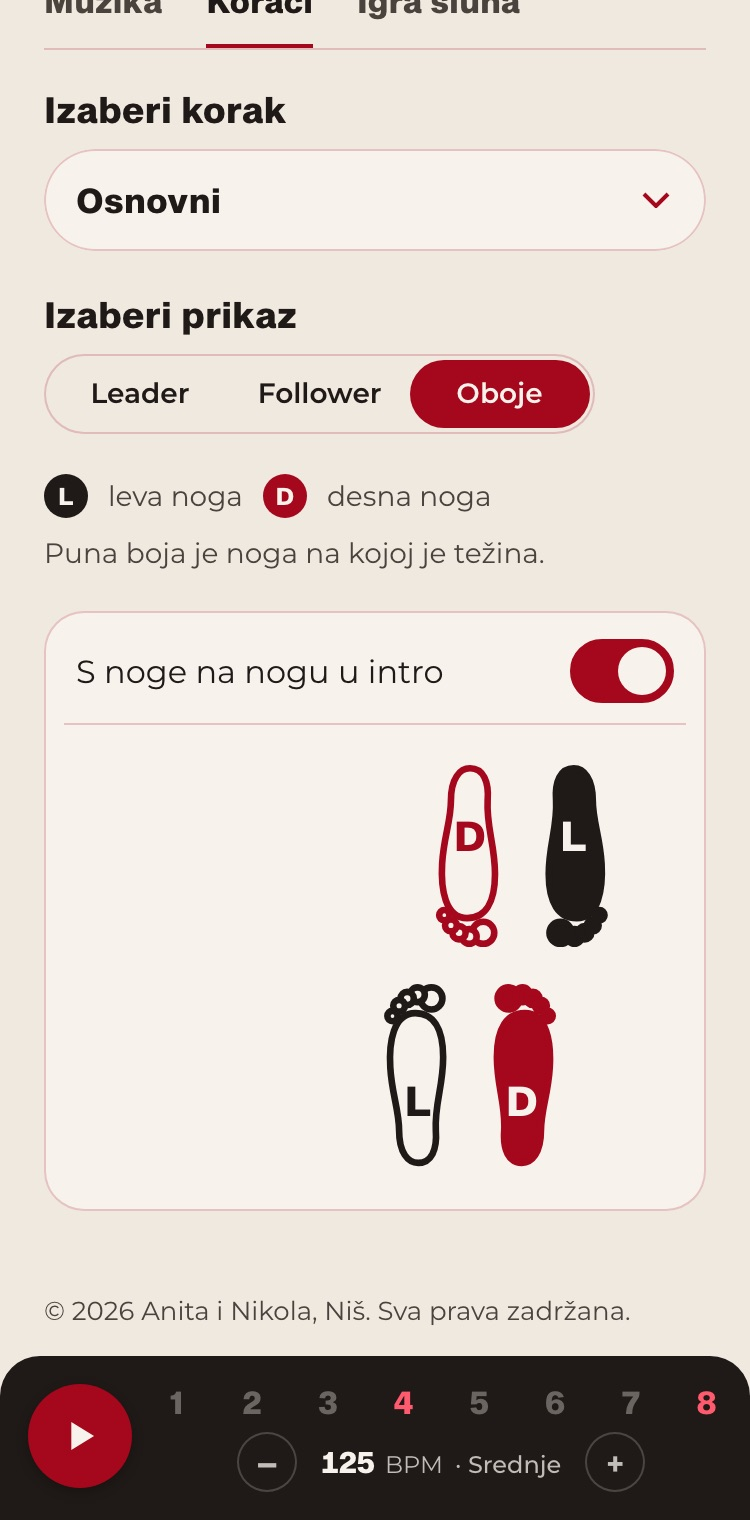
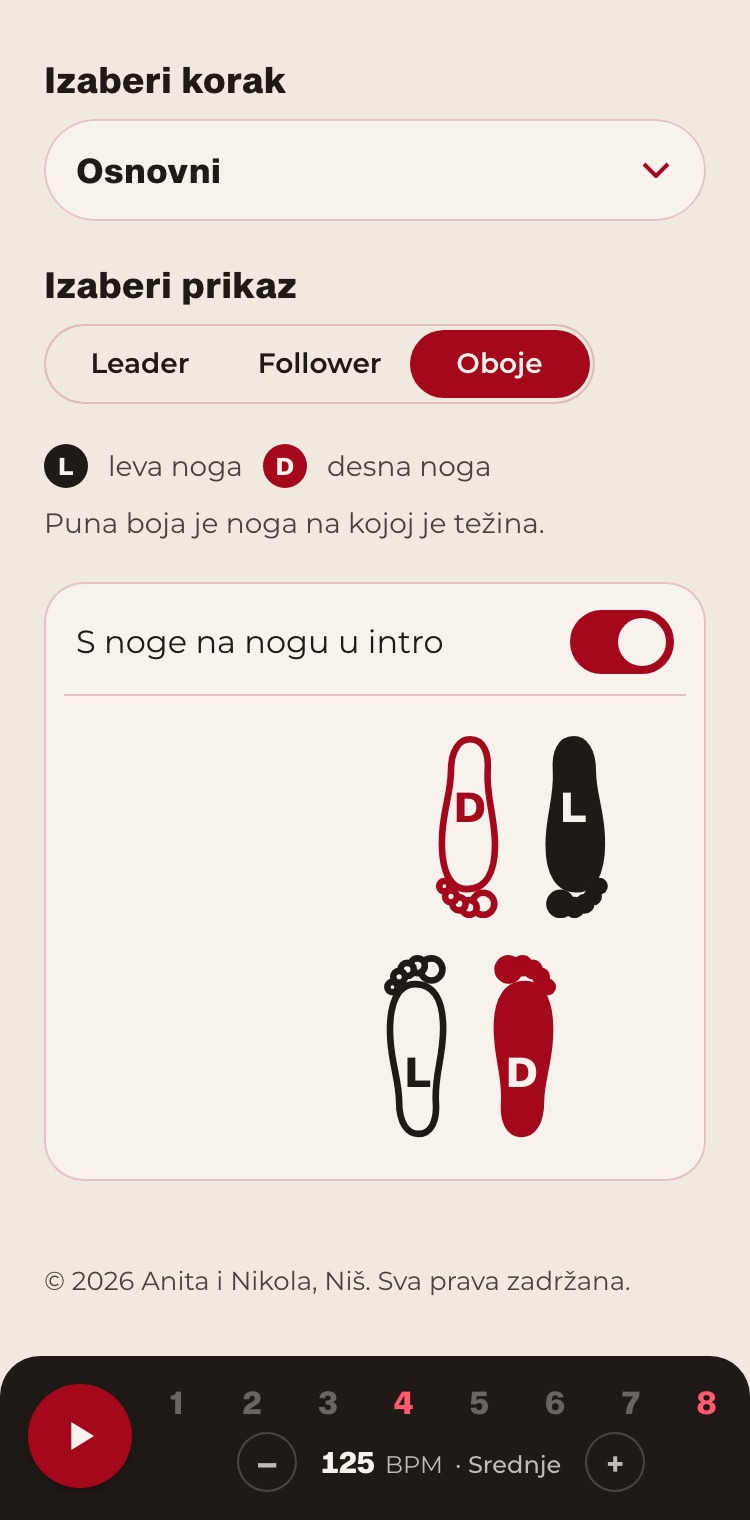
Sajt: pill dugmad, leader/follower; Vežbe: tekstovi bez Viber grupe, novi snimci ekrana, crveni linkovi na ulazu

diff --git a/practice/about/index.html b/practice/about/index.html
@@ -50,7 +50,7 @@
 }
 </script>
 
-<link rel="stylesheet" href="/css/site.css?v=10">
+<link rel="stylesheet" href="/css/site.css?v=11">
 <style>
   /* this page only: a dark header band, the phone screenshots and the three parts of the app */
   .top { background: var(--ink); color: var(--paper); padding: calc(18px + env(safe-area-inset-top)) 0 48px; }
@@ -108,7 +108,7 @@
       <div class="rule"></div>
       <ul class="shots">
         <li><img src="img/muzika.jpg" alt="Ekran Muzika: izbor pesme, brojanje, metronom i instrumenti koje uključuješ jedan po jedan" width="750" height="1520" loading="lazy"><p>Muzika: svaki instrument posebno.</p></li>
-        <li><img src="img/koraci.jpg" alt="Ekran Koraci: osnovni korak bachate, stopala vođe i pratilje gledano odozgo" width="750" height="1520" loading="lazy"><p>Koraci: stopala vođe i pratilje.</p></li>
+        <li><img src="img/koraci.jpg" alt="Ekran Koraci: osnovni korak bachate, stopala leadera i followera gledano odozgo" width="750" height="1520" loading="lazy"><p>Koraci: stopala leadera i followera.</p></li>
         <li><img src="img/igra.jpg" alt="Ekran Igra sluha: igre Prati ritam, Nađi tap i Nađi jedinicu" width="750" height="1520" loading="lazy"><p>Igra sluha: tri igre za ritam.</p></li>
       </ul>
     </div>
@@ -125,7 +125,7 @@
           <ul>
             <li>Brojanje od 1 do 8, na srpskom ili engleskom, i metronom.</li>
             <li>Traka pesme pokazuje gde je intro, a gde se igra bachata: derecho, majao i mambo.</li>
-            <li>Generisana muzika sa tempom od 60 do 200 BPM, za sporo vežbanje.</li>
+            <li>Generisana muzika sa tempom od 60 do 200 BPM, za vežbanje brzine.</li>
           </ul>
         </div>
         <div>
@@ -133,13 +133,13 @@
           <p>Animacija stopala odozgo, u ritmu muzike. Puna boja pokazuje nogu na kojoj je težina, pa se jasno vidi i tap.</p>
           <ul>
             <li>Osnovni korak, napred, u mestu, box, korak tap, dupli tap, cross back, slide i okreti na 1 i na 5.</li>
-            <li>Prikaz za vođu, za pratilju ili za oboje zajedno.</li>
+            <li>Prikaz za leadera, za followera ili za oboje zajedno.</li>
             <li>Uz pravu pesmu stopala prate delove pesme: u intru se težina prenosi s noge na nogu.</li>
           </ul>
         </div>
         <div>
           <h3>Igra sluha</h3>
-          <p>Tri igre koje uče da čuješ ritam bez brojanja. Svaki nivo je druga pesma, a muzika je sve brža.</p>
+          <p>Tri igre koje uče da čuješ ritam bez brojanja. Svaki nivo je druga pesma, a muzika je sve teža.</p>
           <ul>
             <li>Prati ritam: tapni na svaki udarac.</li>
             <li>Nađi tap: tapni na 4 i 8, tamo gde je tap.</li>
@@ -156,7 +156,7 @@
       <h2>Za polaznike kluba</h2>
       <div class="rule"></div>
       <div class="members">
-        <p>Aplikacija je besplatna za polaznike naših časova bachate u Nišu. Šifru dobijaš u Viber grupi polaznika.</p>
+        <p>Aplikacija je besplatna za polaznike bachata kluba Anita i Nikola u Nišu.</p>
         <p>Nisi polaznik? Časovi su utorkom i četvrtkom od 18:30, na adresi Bulevar dr Zorana Đinđića 38. Sve o upisu je na <a href="/">početnoj strani</a>.</p>
       </div>
       <div class="actions">
@@ -188,7 +188,7 @@
         </details>
         <details>
           <summary>Kako da dobijem pristup?</summary>
-          <p>Upiši se na časove. Polaznici dobijaju šifru u Viber grupi. Piši nam na Instagramu <a href="https://ig.me/m/anitainikola">@anitainikola</a>.</p>
+          <p>Upiši se na časove, polaznici dobijaju šifru kluba. Piši nam na Instagramu <a href="https://ig.me/m/anitainikola">@anitainikola</a>.</p>
         </details>
       </div>
     </div>

diff --git a/practice/js/app.js b/practice/js/app.js
@@ -1,13 +1,13 @@
-import { Engine, CHANNELS } from './engine.js?v=20261102193147';
-import { laneVelocity, NUMERE, setNumera, numeraId } from './patterns.js?v=20261102193147';
-import { KORACI } from './steps.js?v=20261102193147';
-import { FeetView } from './feet.js?v=20261102193147';
-import { EarTest, MODES, LEVELS, roundMs, feedback, songsForGame } from './game.js?v=20261102193147';
-import * as store from './storage.js?v=20261102193147';
-import * as board from './leaderboard.js?v=20261102193147';
-import { t, lang, setLang, onLangChange, applyStatic } from './i18n.js?v=20261102193147';
-import { ICONS } from './icons.js?v=20261102193147';
-import { unlocked } from './gate.js?v=20261102193147';
+import { Engine, CHANNELS } from './engine.js?v=20261102194158';
+import { laneVelocity, NUMERE, setNumera, numeraId } from './patterns.js?v=20261102194158';
+import { KORACI } from './steps.js?v=20261102194158';
+import { FeetView } from './feet.js?v=20261102194158';
+import { EarTest, MODES, LEVELS, roundMs, feedback, songsForGame } from './game.js?v=20261102194158';
+import * as store from './storage.js?v=20261102194158';
+import * as board from './leaderboard.js?v=20261102194158';
+import { t, lang, setLang, onLangChange, applyStatic } from './i18n.js?v=20261102194158';
+import { ICONS } from './icons.js?v=20261102194158';
+import { unlocked } from './gate.js?v=20261102194158';
 
 await unlocked(); // the club gate: nothing starts (no song downloads) until the code is typed
 

diff --git a/practice/js/i18n.js b/practice/js/i18n.js
@@ -9,10 +9,10 @@ const DICT = {
     'wordmark.aria': 'Anita i Nikola, početna strana sajta',
     'wordmark.href': '/',
     'title': 'Vežbanje',
-    'gate.lead': 'Aplikacija je za polaznike kluba. Upiši šifru iz Viber grupe.',
+    'gate.lead': 'Aplikacija je za polaznike kluba. Upiši šifru kluba.',
     'gate.label': 'Šifra kluba',
     'gate.enter': 'Uđi',
-    'gate.wrong': 'Šifra nije tačna. Proveri šifru u Viber grupi.',
+    'gate.wrong': 'Šifra nije tačna. Pokušaj ponovo.',
     'gate.about': 'Šta je ova aplikacija?',
     'gate.join': 'Nisi polaznik? Piši nam na Instagramu',
     'lang.group': 'Jezik',
@@ -186,10 +186,10 @@ const DICT = {
     'wordmark.aria': 'Anita i Nikola, website home page',
     'wordmark.href': '/en/',
     'title': 'Practice',
-    'gate.lead': 'The app is for members of the club. Type the code from the Viber group.',
+    'gate.lead': 'The app is for members of the club. Type the club code.',
     'gate.label': 'Club code',
     'gate.enter': 'Enter',
-    'gate.wrong': 'Wrong code. Check the code in the Viber group.',
+    'gate.wrong': 'Wrong code. Try again.',
     'gate.about': 'What is this app?',
     'gate.join': 'Not a member? Message us on Instagram',
     'lang.group': 'Language',

diff --git a/practice/index.html b/practice/index.html
@@ -14,7 +14,7 @@
   <link rel="preconnect" href="https://fonts.gstatic.com" crossorigin>
   <link href="https://fonts.googleapis.com/css2?family=Montserrat:wght@400;500;600&family=Sacramento&display=swap" rel="stylesheet">
   <link rel="preload" href="fonts/Northwell.woff2" as="font" type="font/woff2" crossorigin>
-  <link rel="stylesheet" href="css/app.css?v=20261102193147">
+  <link rel="stylesheet" href="css/app.css?v=20261102194158">
 </head>
 <body class="is-locked">
   <header class="top">
@@ -38,7 +38,7 @@
 
   <!-- ============================================================ CLUB GATE -->
   <section class="gate" id="gate" hidden>
-    <p class="gate-lead" data-i18n="gate.lead">Aplikacija je za polaznike kluba. Upiši šifru iz Viber grupe.</p>
+    <p class="gate-lead" data-i18n="gate.lead">Aplikacija je za polaznike kluba. Upiši šifru kluba.</p>
     <form class="gate-form" id="gate-form" autocomplete="off">
       <label class="field-label" for="gate-code" data-i18n="gate.label">Šifra kluba</label>
       <div class="gate-row">
@@ -221,6 +221,6 @@
     </div>
   </footer>
 
-  <script type="module" src="js/app.js?v=20261102193147"></script>
+  <script type="module" src="js/app.js?v=20261102194158"></script>
 </body>
 </html>

diff --git a/en/index.html b/en/index.html
@@ -65,7 +65,7 @@
 }
 </script>
 
-<link rel="stylesheet" href="../css/site.css?v=10">
+<link rel="stylesheet" href="../css/site.css?v=11">
 </head>
 <body>
 
@@ -128,7 +128,7 @@
         <div class="rule"></div>
         <ul class="points">
           <li><h3>Partner dancing</h3><p>We rotate partners during class, so you quickly get to know the whole group, and you don't need to bring a partner.</p></li>
-          <li><h3>Step by step</h3><p>We work on rhythm, basic steps, leading and following, and then on figures.</p></li>
+          <li><h3>Step by step</h3><p>We work on rhythm, basic steps, technique for leaders and followers, and then on figures.</p></li>
           <li><h3>No pressure</h3><p>We want our classes to be a place where you progress at your own pace, ask questions and look forward to the next one.</p></li>
           <li><h3>Practical skills</h3><p>You don't learn figures to memorize them, but to be able to dance with anyone at a party. With every class your confidence grows, on the dance floor and off it.</p></li>
         </ul>

diff --git a/index.html b/index.html
@@ -65,7 +65,7 @@
 }
 </script>
 
-<link rel="stylesheet" href="css/site.css?v=10">
+<link rel="stylesheet" href="css/site.css?v=11">
 </head>
 <body>
 
@@ -128,7 +128,7 @@
         <div class="rule"></div>
         <ul class="points">
           <li><h3>Ples u paru</h3><p>Na časovima menjamo partnere, tako da brzo upoznaš celu grupu, a dolazak bez partnera nije problem.</p></li>
-          <li><h3>Korak po korak</h3><p>Radimo ritam, osnovne korake, vođenje i praćenje, a zatim i figure.</p></li>
+          <li><h3>Korak po korak</h3><p>Radimo ritam, osnovne korake, tehniku za leadere i followere, a zatim i figure.</p></li>
           <li><h3>Bez pritiska</h3><p>Želimo da časovi budu mesto gde napreduješ svojim tempom, postavljaš pitanja i raduješ se sledećem treningu.</p></li>
           <li><h3>Primenjivo znanje</h3><p>Ne učiš figure da bi ih zapamtio, već da bi mogao da zaplešeš sa bilo kim na žurci. Sa svakim časom raste i samopouzdanje, na podijumu i van njega.</p></li>
         </ul>

diff --git a/practice/js/engine.js b/practice/js/engine.js
@@ -3,9 +3,9 @@
 // and get the step that is sounding right now, so sound and picture stay locked
 // even when the tempo changes mid-play.
 
-import * as I from './instruments.js?v=20261102193147';
-import * as P from './patterns.js?v=20261102193147';
-import { SampleBank } from './samples.js?v=20261102193147';
+import * as I from './instruments.js?v=20261102194158';
+import * as P from './patterns.js?v=20261102194158';
+import { SampleBank } from './samples.js?v=20261102194158';
 
 export const STEPS_PER_PHRASE = 16;
 const LOOKAHEAD = 0.18;    // schedule this far ahead (s); a count word may start up to 0.15 s before its beat

diff --git a/practice/js/gate.js b/practice/js/gate.js
@@ -1,8 +1,8 @@
 // Club gate: the app opens only after the player types the club code (shared in the club's Viber group).
 // The code changes about once a month; a phone that knows the current code is let in at once.
 // This only stops casual visitors (the site is static); real accounts may come later.
-import { CODE_HASH } from './access.js?v=20261102193147';
-import { applyStatic, t } from './i18n.js?v=20261102193147';
+import { CODE_HASH } from './access.js?v=20261102194158';
+import { applyStatic, t } from './i18n.js?v=20261102194158';
 
 const KEY = 'vezbaj.pristup';
 const $ = (id) => document.getElementById(id);

diff --git a/practice/js/feet.js b/practice/js/feet.js
@@ -1,5 +1,5 @@
-import { t } from './i18n.js?v=20261102193147';
-import { KORACI, NOGA_NA_NOGU } from './steps.js?v=20261102193147';
+import { t } from './i18n.js?v=20261102194158';
+import { KORACI, NOGA_NA_NOGU } from './steps.js?v=20261102194158';
 // Top-down feet animation for the Koraci screen.
 // Positions come from steps.js; time comes from the audio engine (positionAt),
 // so the feet land exactly on the counts you hear.

diff --git a/practice/css/app.css b/practice/css/app.css
@@ -668,3 +668,4 @@ body.is-locked .tabs, body.is-locked main, body.is-locked .transport, body.is-lo
 .gate-row .cta { flex: none; min-height: 50px; }
 .gate-error { min-height: 1.4em; margin: 8px 0 0; font-size: 14px; color: var(--red); }
 .gate-links { display: grid; gap: 10px; margin: 28px 0 0; }
+.gate-links a { color: var(--red); font-weight: 600; text-underline-offset: 3px; }

diff --git a/css/site.css b/css/site.css
@@ -102,6 +102,7 @@ h3 {
   text-decoration: none;
   text-align: center;
   transition: background var(--dur) var(--ease), color var(--dur) var(--ease);
+  border-radius: 999px; /* pill, like the app */
 }
 .cta:hover { background: var(--red-hover); }
 .cta:active { background: var(--red-press); }

diff --git a/practice/js/game.js b/practice/js/game.js
@@ -1,4 +1,4 @@
-import { t } from './i18n.js?v=20261102193147';
+import { t } from './i18n.js?v=20261102194158';
 
 // Test sluha: the music starts at once and every tap counts. A level ends when the player
 // lands enough hits in a row; the faster that happens, the more points.
